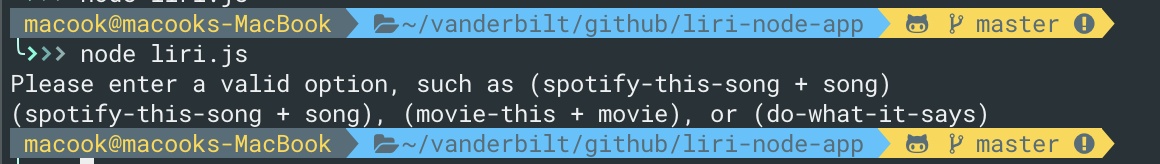
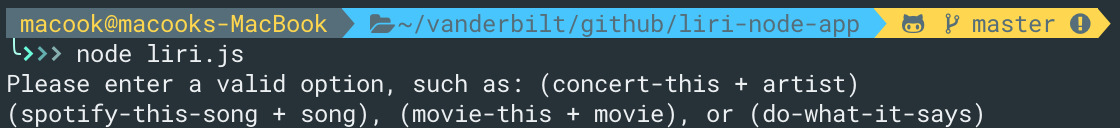
Last details #101

diff --git a/liri.js b/liri.js
@@ -28,7 +28,7 @@ switch (options) {
     listen();
     break;
   default:
-    console.log("Please enter a valid option, such as (spotify-this-song + song)");
+    console.log("Please enter a valid option, such as: (concert-this + artist)");
     console.log("(spotify-this-song + song), (movie-this + movie), or (do-what-it-says)");
     break;
 }
